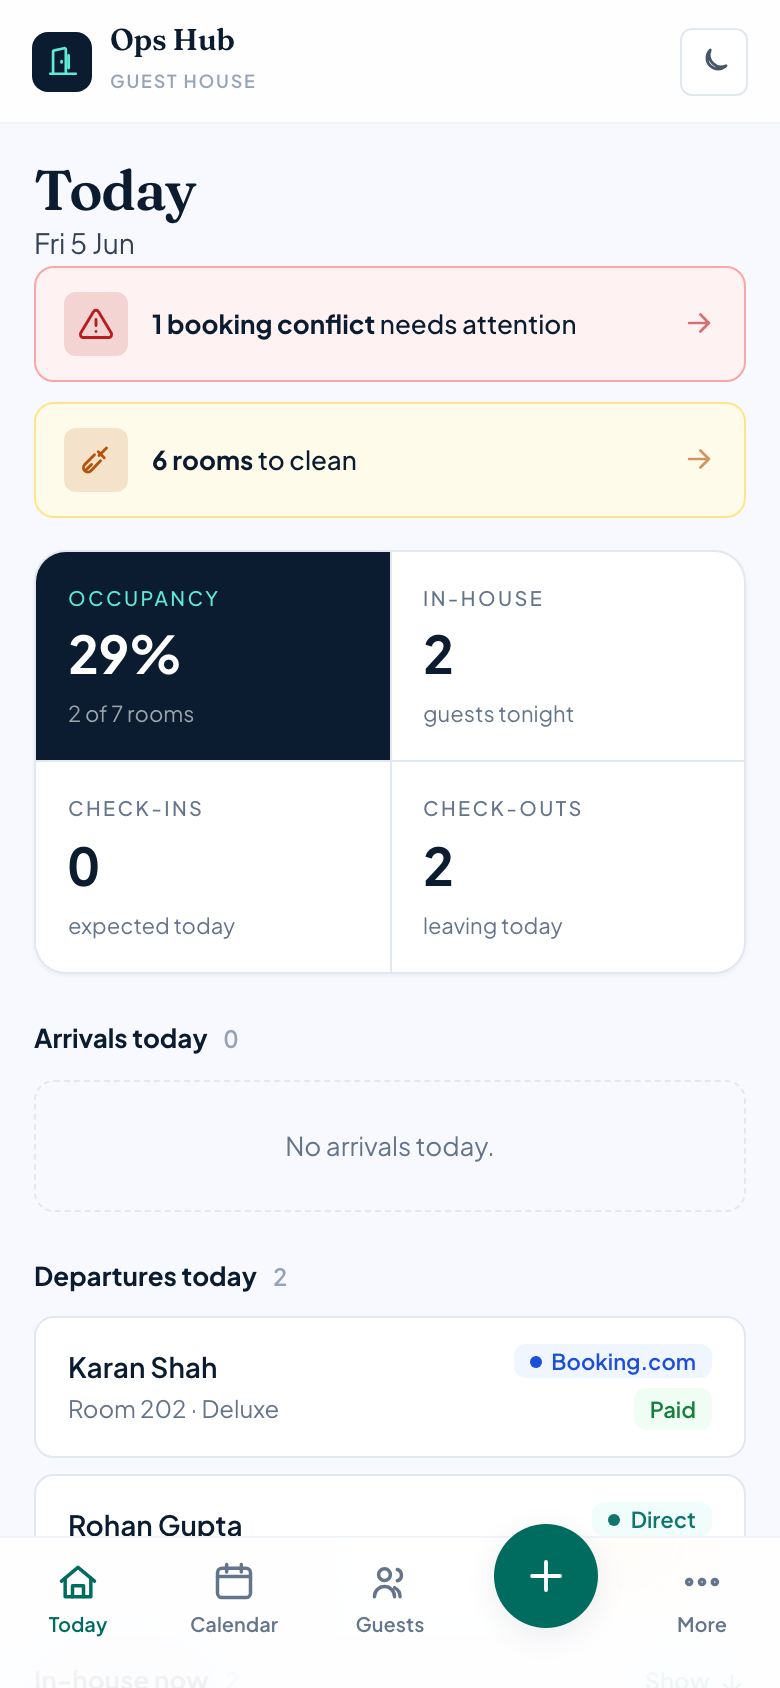
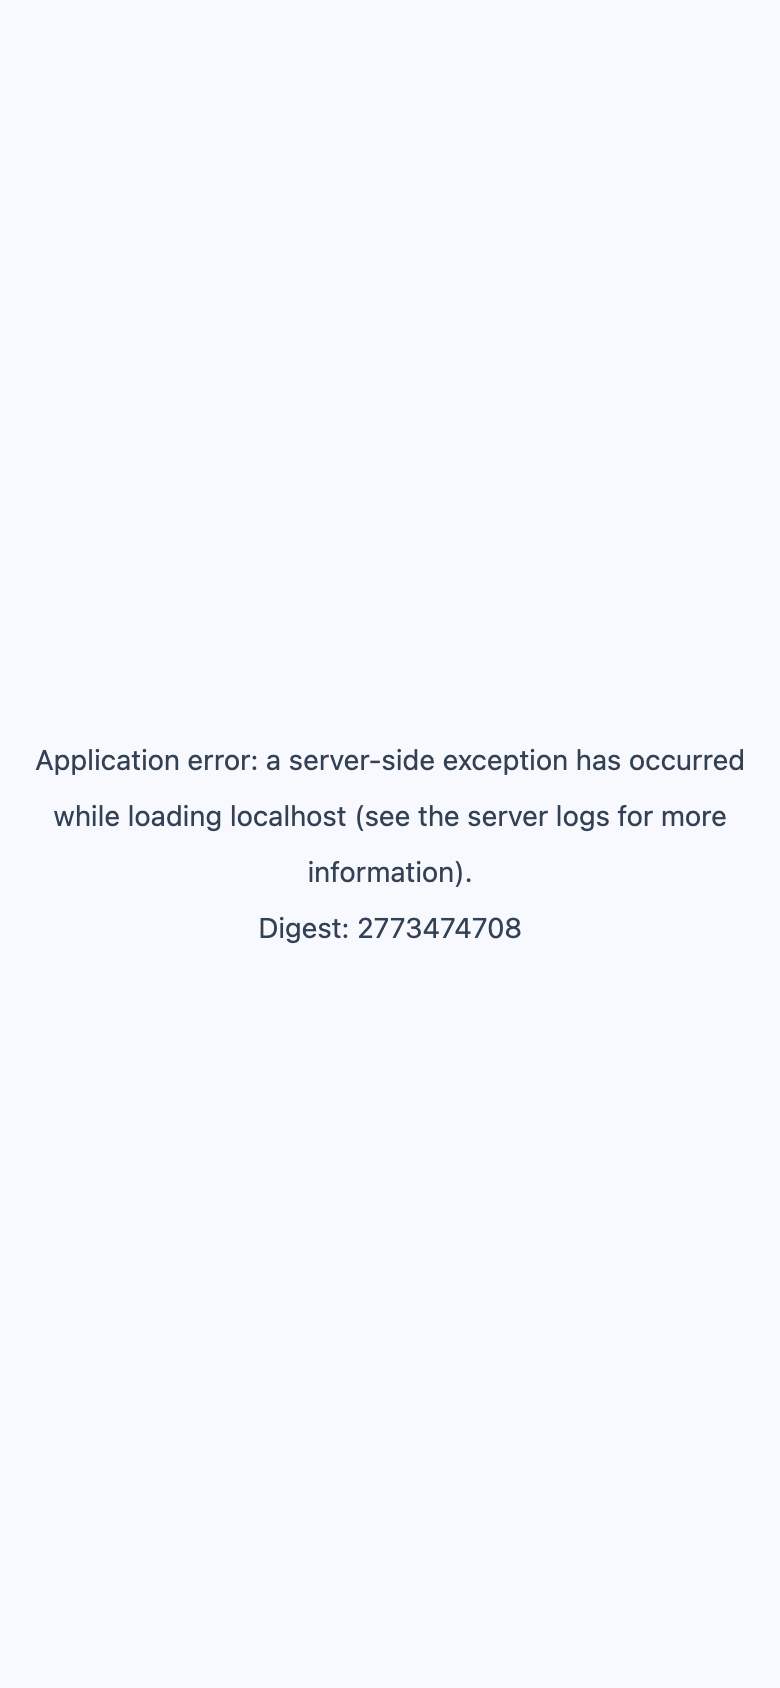
docs: add desktop screenshots for every screen (mobile + desktop pairs)
Extend scripts/screenshots.mjs to also capture every route at desktop size
(<name>-desktop.png), and embed a desktop shot beside each mobile one in
USER-GUIDE.html. Replaces the two one-off desktop images with a full per-screen
set (18 desktop + 22 mobile). Re-runnable via npm run shots.

diff --git a/docs/USER-GUIDE.html b/docs/USER-GUIDE.html
@@ -107,7 +107,7 @@
   <p class="flowcap">The phone menu. The big <strong>+</strong> in the middle = new booking. <strong>More</strong> opens everything else (Finance, Pricing, Inbox, Settings, Help…).</p>
   <img class="shot" src="img/more-sheet.png" alt="The More menu">
   <p class="shotcap">Tapping <strong>More</strong> opens this menu of all the other screens.</p>
-  <img class="shot shot--wide" src="img/desktop-sidebar.png" alt="Desktop layout with a left sidebar">
+  <img class="shot shot--wide" src="img/today-desktop.png" alt="Desktop layout with a left sidebar">
   <p class="shotcap">On a computer, the same destinations live in a sidebar down the left.</p>
   <h3>Make it feel right</h3>
   <p>Tap the moon/sun icon to switch <strong>dark / light</strong> mode. Open <strong>Preferences</strong> (the gear, or <em>More → Preferences</em>) to change the <strong>accent colour</strong> and <strong>display density</strong> (comfortable / compact). Your choices are remembered on that device.</p>
@@ -144,6 +144,7 @@
   <!-- 3 -->
   <h2 id="calendar"><span class="n">3</span>Calendar</h2>
   <img class="shot" src="img/calendar.png" alt="Calendar grid on a phone">
+  <img class="shot shot--wide" src="img/calendar-desktop.png" alt="Calendar on a computer">
   <p>A grid of your rooms (rows) across dates (columns). Each cell is colour-coded:</p>
   <table>
     <tr><th>Colour</th><th>Meaning</th></tr>
@@ -161,12 +162,11 @@
     <li>Swipe sideways to see more dates.</li>
     <li><b class="lbl">Block a room</b> takes you to where you can hold a room out of service (see <a href="#settings">Settings → Maintenance blocks</a>).</li>
   </ul>
-  <img class="shot shot--wide" src="img/desktop-calendar.png" alt="Calendar on a computer showing more dates">
-  <p class="shotcap">On a computer the calendar shows many more dates at once.</p>
 
   <!-- 4 -->
   <h2 id="new"><span class="n">4</span>Taking a booking</h2>
   <img class="shot" src="img/new-booking.png" alt="New booking form on a phone">
+  <img class="shot shot--wide" src="img/new-booking-desktop.png" alt="New booking form on a computer">
   <p>Tap <b class="lbl">New</b> (or <em>New booking</em>). Fill in:</p>
   <ul>
     <li><strong>Guest name &amp; phone</strong> — if the phone matches an existing guest, their record is reused automatically.</li>
@@ -192,6 +192,7 @@
   <!-- 5 -->
   <h2 id="reservation"><span class="n">5</span>A booking&rsquo;s details &amp; check-in/out</h2>
   <img class="shot" src="img/reservation-detail.png" alt="A booking's detail screen on a phone">
+  <img class="shot shot--wide" src="img/reservation-detail-desktop.png" alt="A booking's detail screen on a computer">
   <p>Tap any booking (from the calendar, Today, or a guest) to open it. You&rsquo;ll see the room, channel, dates, nights, amount and special requests.</p>
   <h3>Check-in &amp; check-out</h3>
   <p>The stay card moves through three steps:</p>
@@ -217,6 +218,8 @@
     <img class="shot" src="img/payments.png" alt="Payments panel on a booking">
     <img class="shot" src="img/invoice.png" alt="Printable invoice">
   </div>
+  <img class="shot shot--wide" src="img/payments-desktop.png" alt="Payments on a computer">
+  <img class="shot shot--wide" src="img/invoice-desktop.png" alt="Invoice on a computer">
   <h3>Recording payments</h3>
   <p>On a booking, the payments panel shows what&rsquo;s been collected and the <strong>balance due</strong>. <b class="lbl">Add payment</b> to record an amount and how it was paid (cash, UPI, card, bank, or collected by the OTA). Add several over time — a deposit now, the balance at check-in.</p>
   <h3>Invoices</h3>
@@ -226,6 +229,7 @@
   <!-- 7 -->
   <h2 id="guests"><span class="n">7</span>Guests</h2>
   <img class="shot" src="img/guests.png" alt="Guests list on a phone">
+  <img class="shot shot--wide" src="img/guests-desktop.png" alt="Guests list on a computer">
   <p>Search by name or phone. Each guest shows their number of stays, and badges for <span class="pill">Repeat</span> guests and <span class="pill">Blocked</span> (blacklisted) ones.</p>
   <p>Open a guest to see:</p>
   <ul>
@@ -239,6 +243,7 @@
   <!-- 8 -->
   <h2 id="housekeeping"><span class="n">8</span>Housekeeping</h2>
   <img class="shot" src="img/housekeeping.png" alt="Housekeeping screen on a phone">
+  <img class="shot shot--wide" src="img/housekeeping-desktop.png" alt="Housekeeping screen on a computer">
   <p>Two lists:</p>
   <ul>
     <li><strong>To clean</strong> — rooms a guest has checked out of. A room with someone <em>arriving today</em> is flagged <span class="pill">clean first</span>. Tap <b class="lbl">Mark clean</b> when done.</li>
@@ -248,6 +253,7 @@
   <!-- 9 -->
   <h2 id="inbox"><span class="n">9</span>Inbox (OTA emails)</h2>
   <img class="shot" src="img/inbox.png" alt="Inbox screen on a phone">
+  <img class="shot shot--wide" src="img/inbox-desktop.png" alt="Inbox screen on a computer">
   <p>For bookings that arrive by email from Booking.com / Agoda / MakeMyTrip:</p>
   <ol>
     <li>Copy the whole confirmation email and <strong>paste it</strong> into the box, then tap <b class="lbl">Parse email</b>.</li>
@@ -267,6 +273,7 @@
   <!-- 10 -->
   <h2 id="pricing"><span class="n">10</span>Pricing &amp; rates</h2>
   <img class="shot" src="img/pricing.png" alt="Pricing rate calendar on a phone">
+  <img class="shot shot--wide" src="img/pricing-desktop.png" alt="Pricing rate calendar on a computer">
   <p>The <b class="lbl">Pricing</b> screen shows a calendar of <strong>suggested nightly rates</strong> per room type. These are advisory — they help you decide and pre-fill new bookings; they are <em>not</em> sent to the OTAs.</p>
   <ul>
     <li>A rate in <em>italics</em> means a pricing rule adjusted it; a <strong>dot</strong> means you pinned a manual rate.</li>
@@ -277,6 +284,7 @@
   <!-- 11 -->
   <h2 id="finance"><span class="n">11</span>Finance</h2>
   <img class="shot" src="img/finance.png" alt="Finance screen on a phone">
+  <img class="shot shot--wide" src="img/finance-desktop.png" alt="Finance screen on a computer">
   <p>Pick a date range at the top. You&rsquo;ll see four tiles: <strong>Gross revenue</strong>, <strong>OTA commission</strong>, <strong>Expenses</strong>, and <strong>Net profit</strong> (what&rsquo;s actually left).</p>
   <ul>
     <li><strong>By channel</strong> — revenue, commission and net for each booking source.</li>
@@ -288,16 +296,19 @@
   <!-- 12 -->
   <h2 id="analytics"><span class="n">12</span>Analytics</h2>
   <img class="shot" src="img/analytics.png" alt="Analytics screen on a phone">
+  <img class="shot shot--wide" src="img/analytics-desktop.png" alt="Analytics screen on a computer">
   <p>Performance over a period: <strong>occupancy</strong>, <strong>ADR</strong> (average nightly rate), <strong>RevPAR</strong> (revenue per available room), and your <strong>channel mix</strong> — useful for spotting trends and your best sources.</p>
 
   <!-- 13 -->
   <h2 id="conflicts"><span class="n">13</span>Conflicts</h2>
   <img class="shot" src="img/conflicts.png" alt="Conflicts screen on a phone">
+  <img class="shot shot--wide" src="img/conflicts-desktop.png" alt="Conflicts screen on a computer">
   <p>Lists any clashes that need a human decision — typically a manual block overlapping a stay. (Two confirmed bookings can never overlap; the app blocks that at the source.) Clear the list by removing the block or adjusting the booking.</p>
 
   <!-- 14 -->
   <h2 id="feeds"><span class="n">14</span>Channel feeds (iCal)</h2>
   <img class="shot" src="img/feeds.png" alt="Feeds screen on a phone">
+  <img class="shot shot--wide" src="img/feeds-desktop.png" alt="Feeds screen on a computer">
   <p>The <b class="lbl">Feeds</b> screen keeps your calendars in sync with OTAs using free iCal links — no special accounts needed:</p>
   <ul>
     <li><strong>Import:</strong> paste the iCal link an OTA gives you for a room. Their booked dates then show as <em>blocked</em> here, so you can&rsquo;t double-book. <b class="lbl">Sync now</b> refreshes immediately; it also refreshes automatically once a day.</li>
@@ -311,6 +322,9 @@
     <img class="shot" src="img/settings-pricing.png" alt="Settings — Pricing rules">
     <img class="shot" src="img/block-room.png" alt="Settings — Block a room">
   </div>
+  <img class="shot shot--wide" src="img/settings-rooms-desktop.png" alt="Settings — Rooms on a computer">
+  <img class="shot shot--wide" src="img/settings-pricing-desktop.png" alt="Settings — Pricing rules on a computer">
+  <img class="shot shot--wide" src="img/block-room-desktop.png" alt="Settings — Block a room on a computer">
   <p>Everything you set up once and rarely change:</p>
   <table>
     <tr><th>Section</th><th>What you manage</th></tr>
@@ -343,6 +357,7 @@
   </ul>
 
   <img class="shot" src="img/help.png" alt="The in-app Help screen">
+  <img class="shot shot--wide" src="img/help-desktop.png" alt="The in-app Help screen on a computer">
   <p class="shotcap">The built-in <strong>Help</strong> screen — a quick version of this guide, inside the app.</p>
 
   <footer>